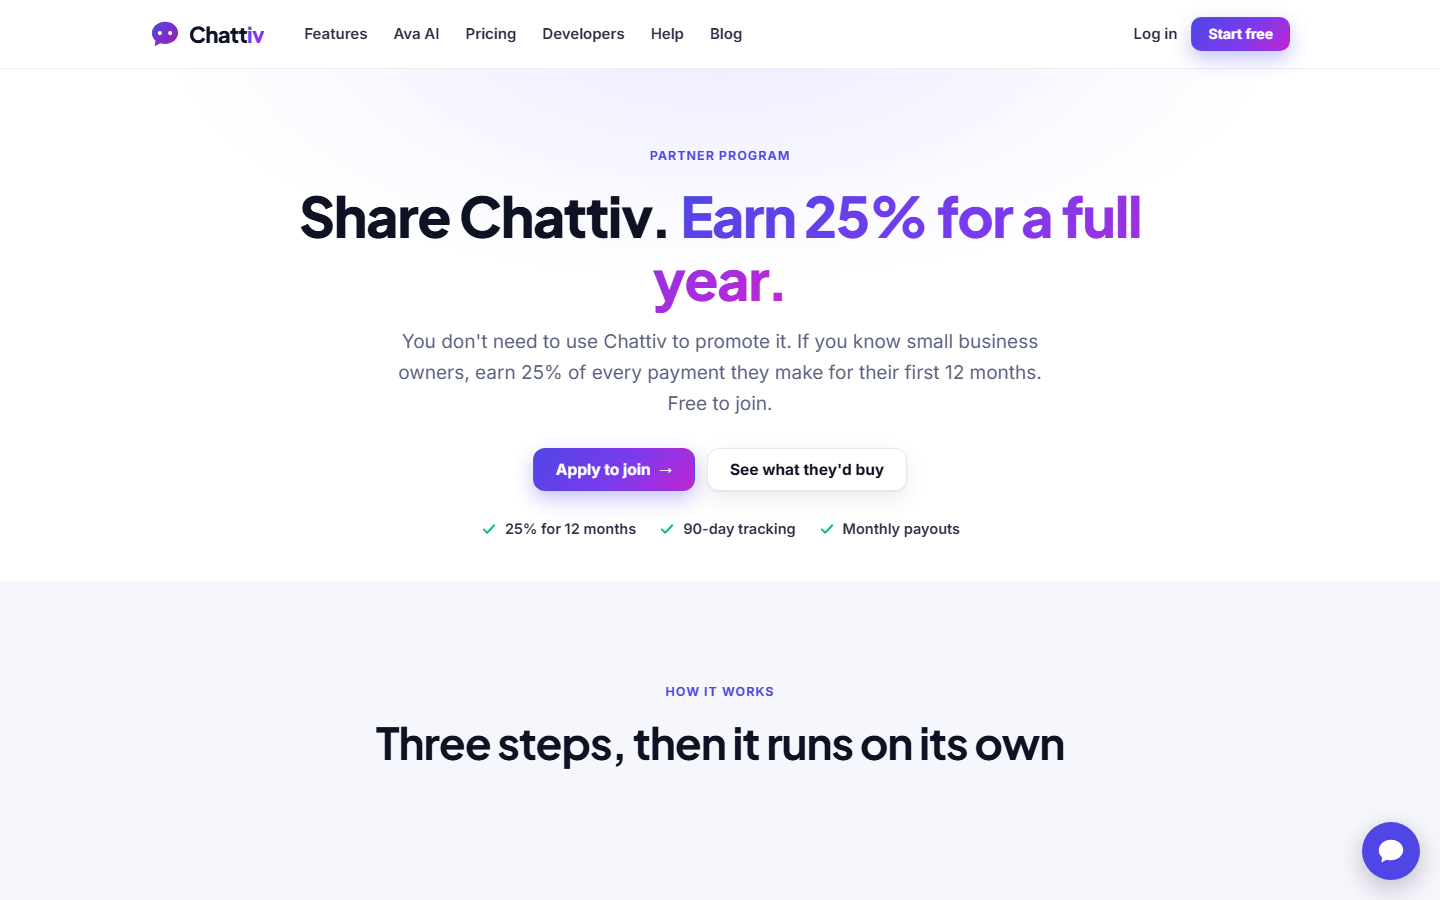
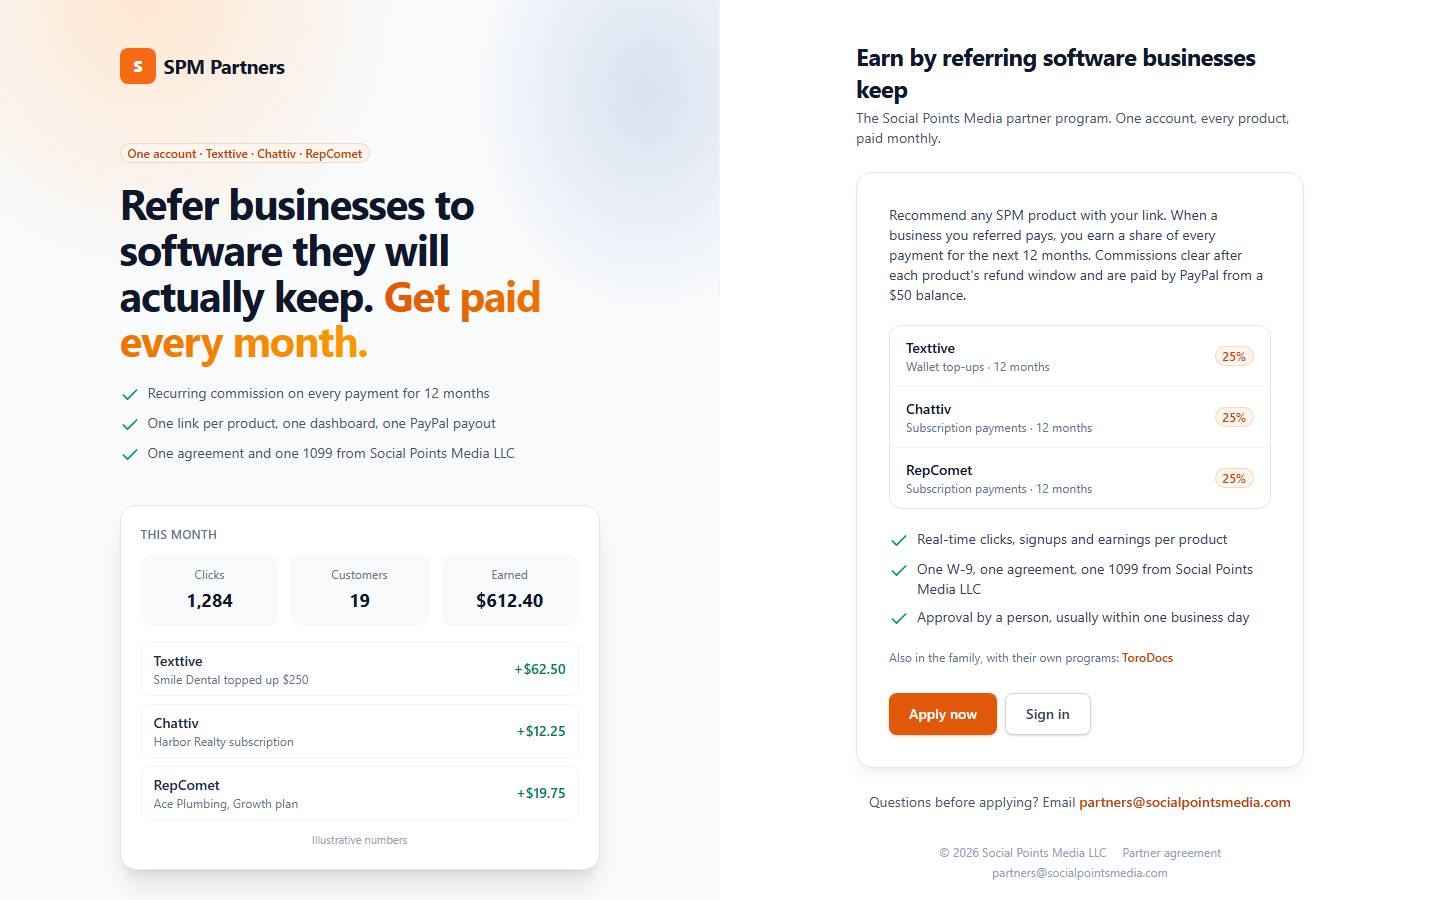
Case study: Ava's knowledge gap check and the shared SPM Partners integration

diff --git a/README.md b/README.md
@@ -37,7 +37,7 @@ full application source is private and available to reviewers on request.
 | **Ava, the AI assistant** | Opt-in per website: off, human first with AI backup, AI after hours, or AI first. Learns from the site, a business brief, FAQ answers and documents, and from the questions she could not answer. Finds answers by meaning, not just matching words. |
 | **Agent API** | Businesses can connect their own AI. It can answer chats directly under exactly the same handoff rules, or act as **Ava's helper**: teaching her and answering live when she doesn't know. Webhooks, WebSocket or simple polling. |
 | **Billing** | Free, Starter and Pro plans with Stripe, plus AI chat packs that never expire and an optional auto top-up with a monthly cap. |
-| **Partner program** | People who don't use Chattiv can promote it: apply, get approved, share a link, and earn a share of their referrals' payments, with a dashboard for clicks, sign-ups, earnings and payouts. |
+| **Partner referrals** | Chattiv plugs into the shared SPM Partners program, where people who don't use it can promote it alongside the other products. Chattiv tracks their links and reports sign-ups and payments; the hub handles applications, commissions and payouts. |
 | **Help center** | One set of articles shown in the app, on the public site, and used by Ava to answer customers' "how do I" questions. |
 
 <p align="center">
@@ -126,6 +126,7 @@ Ava runs on Claude with **structured output**: every turn returns a JSON object 
   hand the chat to a person.
 - **Search by meaning.** Plain keyword search failed in a telling way: a visitor asked "what makes your service better than other services?", and the word "service" pulled five chunks of the Terms of Service while the site's comparison articles never surfaced. Now a fast, cheap model first rewrites each question into what the visitor means ("comparison, alternative, versus, competitors"), legal and template pages are demoted unless the question is about them, and no single page may take more than two of the eight slots. Replaying the same question afterwards returned the DocuSign and SignNow comparison pages and a grounded answer.
 - **A business brief.** A short company overview rides in the cached part of the prompt on every turn, so broad questions ("what do you do?", "why you?") never depend on search at all.
+- **Ava interviews the owner.** After each crawl, one call reviews everything Ava knows about the business, drafts that brief, and lists the questions customers of that kind of business usually ask that the site never answers (service area, warranties, cancellations, integrations). The owner answers them on a checklist, or a connected helper AI answers them through the API. On its first run across five live sites it found 12 to 15 real gaps each in about 20 seconds. Guesses inferred from the site are shown as guesses, never saved as answers until a person confirms them.
 - **A learning loop without training.** Ungrounded questions are collected per website. The owner types an answer
   once, it becomes knowledge, and it is used on the very next message.
 - **Locked disclosure.** The AI badge and "I'm an AI assistant" behavior are outside the business's control.
@@ -180,21 +181,22 @@ Stripe through Laravel Cashier, attached to the account rather than the user so 
 AI usage is the only metered cost, so it has a hard monthly cap. Extra AI chat packs never expire, and optional auto
 top-up runs only within a monthly spending limit the owner sets, pausing itself if a payment fails.
 
-### 7. A partner program on top of Stripe events
+### 7. Plugging into a shared partner program
 
-Network marketers and agencies wanted to promote Chattiv without using it, so the app has a second kind of login:
+Chattiv's referral program started as a self-contained feature inside the app. Once SocialPoints Media had several
+products with referral programs, it moved to one shared hub (one partner account, one agreement, one payout across
+every product), and Chattiv became a client of that hub. The product kept only what it is best placed to do:
 
-- **Apply, approve, activate.** A public application (honeypot and signed time trap instead of a third-party
-  CAPTCHA), approval in the operator admin, and a one-time hashed invite to set a password. Partner-only logins are
-  routed to their own dashboard and never see the chat product.
-- **Attribution across hosts.** `chattiv.com/r/code` or `?ref=code` on any page sets a 90-day cookie scoped to the
-  parent domain, so a click on the marketing site is still known when the visitor signs up on the app host. The last
-  link clicked wins, the referral is stamped at sign-up and credited to the business account at onboarding, and
-  self-referrals are refused.
-- **Commissions from the money itself.** Instead of tracking plans, commissions are written from Stripe
-  `charge.succeeded` events, so subscriptions, yearly plans and one-off AI packs are all covered by one path. Each row
-  is unique per charge, so webhook retries are harmless; `charge.refunded` and disputes write proportional clawbacks.
-  Earnings mature on the 15th of the following month, and recording a payout marks exactly the matured rows paid.
+- **Attribution.** `?ref=code` on any page, or a `chattiv.com/r/code` short link, is remembered for 90 days in a cookie
+  scoped to the parent domain, so a click on the marketing site is still known when the visitor signs up on the app
+  host. The last link clicked wins, and the code is credited to the business account at onboarding.
+- **Money events, reported from Stripe.** A listener on the Stripe webhook turns every charge on a referred account
+  into a `payment` event for the hub (plans and AI packs alike), `charge.refunded` into a `refund` for only the newly
+  refunded part, and disputes into a `chargeback` that points at the charge it undoes. Customers of other apps on the
+  shared Stripe account are ignored.
+- **Safe delivery.** Each event carries a stable external id (`charge:{id}`, `refund:{id}:{running total}`), so the hub
+  can de-duplicate and a queued job can retry freely; malformed events are dropped instead of retried forever. A
+  partner-program outage can never make Stripe re-deliver a webhook or slow down the app.
 
 ---
 
@@ -213,7 +215,7 @@ Network marketers and agencies wanted to promote Chattiv without using it, so th
 </p>
 
 <p align="center">
-  <img src="assets/partners.png" alt="Partner program" width="900">
+  <img src="assets/partners.png" alt="SPM Partners, the shared partner program Chattiv reports to" width="900">
 </p>
 
 ---
@@ -222,7 +224,7 @@ Network marketers and agencies wanted to promote Chattiv without using it, so th
 
 - A feature test suite of 150+ tests covering ownership and handoff, AI escalation, helper agents, knowledge search
   ranking, the offline path, widget origin checks, the Agent API and webhook signing, plan limits, billing and
-  top-ups, partner attribution, commissions and clawbacks, emails, time zones and the help center.
+  top-ups, the knowledge gap check, partner attribution and reporting, emails, time zones and the help center.
 - The test bootstrap refuses to run against anything but an in-memory database, so a test run can never touch
   production data.
 - Accessibility and performance by default: keyboard support in the widget, reduced-motion support, and no work on
